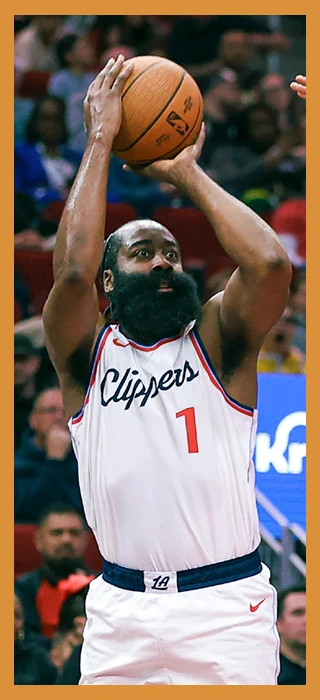
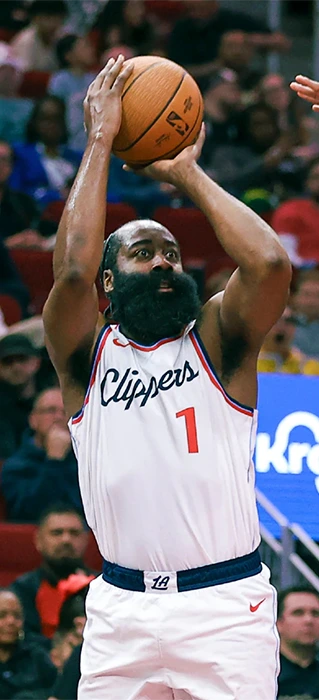
new hero borders

Changed region(s): [[0.0, 0.0, 1.0, 1.0]]

diff --git a/styles.css b/styles.css
@@ -57,6 +57,7 @@ body {
   max-height: 700px;
   overflow: hidden;
   background: #1a1a1a;
+  --hero-border-width: clamp(6px, min(2.15vh, 1.25vw), 15px);
 }
 
 .hero-collage {
@@ -93,6 +94,7 @@ body {
 .hero-panel:nth-child(5) { transition-delay: 1.0s; }
 
 .hero-panel-inner {
+  position: relative;
   width: 100%;
   height: 100%;
   display: flex;
@@ -106,11 +108,24 @@ body {
   color: rgba(255,255,255,0.85);
 }
 
-.hero-panel:nth-child(1) .hero-panel-inner { background: var(--accent-blue); }
-.hero-panel:nth-child(2) .hero-panel-inner { background: var(--accent-green); }
-.hero-panel:nth-child(3) .hero-panel-inner { background: var(--accent-orange); }
-.hero-panel:nth-child(4) .hero-panel-inner { background: var(--accent-purple); }
-.hero-panel:nth-child(5) .hero-panel-inner { background: var(--accent-red); }
+.hero-panel:nth-child(1) { --hero-panel-accent: var(--accent-green); }
+.hero-panel:nth-child(2) { --hero-panel-accent: var(--accent-orange); }
+.hero-panel:nth-child(3) { --hero-panel-accent: var(--accent-blue); }
+.hero-panel:nth-child(4) { --hero-panel-accent: var(--accent-red); }
+.hero-panel:nth-child(5) { --hero-panel-accent: var(--accent-purple); }
+
+.hero-panel-inner {
+  background: var(--hero-panel-accent);
+}
+
+.hero-panel-inner::after {
+  content: "";
+  position: absolute;
+  inset: 0;
+  z-index: 2;
+  pointer-events: none;
+  box-shadow: inset 0 0 0 var(--hero-border-width) var(--hero-panel-accent);
+}
 
 .hero-panel img {
   width: 100%;
